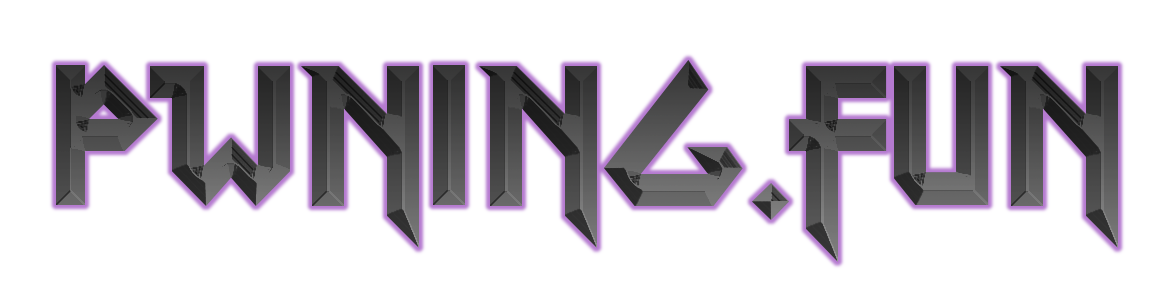
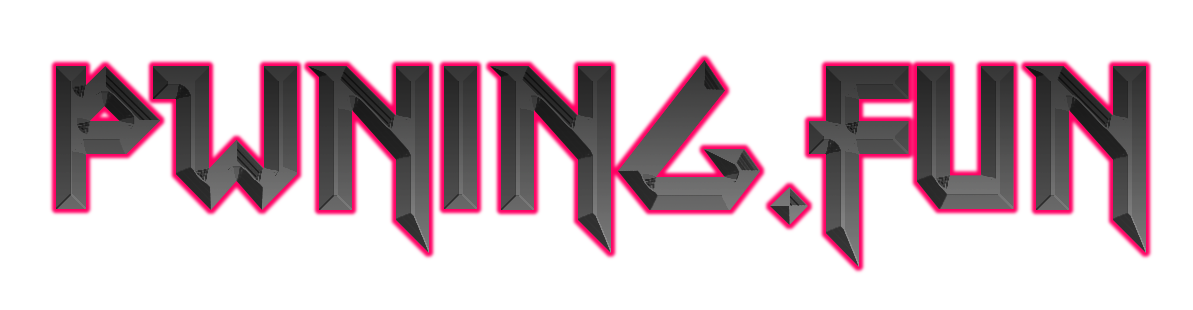
minor color changes

Changed region(s): [[0.0309, 0.1776, 0.9888, 0.8882], [0.5562, 0.1776, 0.618, 0.4145]]

diff --git a/_sass/_amnesia.scss b/_sass/_amnesia.scss
@@ -1,19 +1,20 @@
 
 /* modificaciones generales */
+
 body {
 	background-color: #202120;
 }
 
 a {
-  color: #774282;
+  color: #cc0052;
 }
 
 a:visited {
-  color: #4e3054;
+  color: #99003d;
 }
 
 a:hover {
-  color: #c22cd3;
+  color: #ff66a3;
 }
 
 p {

diff --git a/_site/css/main.css b/_site/css/main.css
@@ -261,13 +261,13 @@ body {
   background-color: #202120; }
 
 a {
-  color: #774282; }
+  color: #cc0052; }
 
 a:visited {
-  color: #4e3054; }
+  color: #99003d; }
 
 a:hover {
-  color: #c22cd3; }
+  color: #ff66a3; }
 
 p {
   text-align: justify; }

diff --git a/css/main.scss b/css/main.scss
@@ -14,7 +14,7 @@ $base-line-height: 1.5;
 
 $spacing-unit:     30px;
 
-$text-color:       #202120;
+$text-color:       #cc0000;
 $background-color: #202120;
 $brand-color:      #202120;
 
